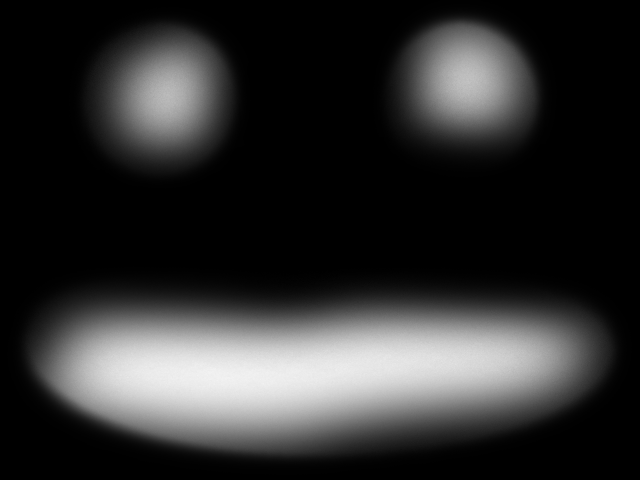
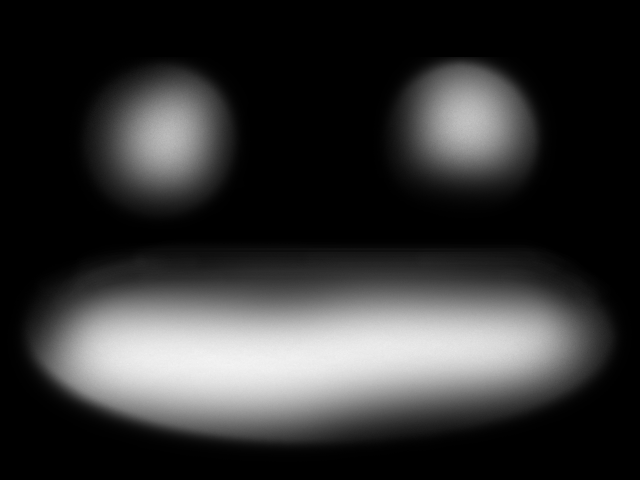
update apple mask

diff --git a/experiments/fruit-head/index.html b/experiments/fruit-head/index.html
@@ -9,11 +9,14 @@
 		body {
 			margin: 0;
 		}
-		video {
+		video, .tracker-canvas {
+			position: absolute;
+			top: 0;
+			left: 0;
 			width: 320px;
 			height: 240px;
 		}
-		canvas {
+		.main-canvas {
 			width: 450px;
 			height: 450px;
 			position: absolute;
@@ -38,7 +41,8 @@
 <body>
 	<video width="640" height="480" autoplay></video>
 	<img src="apple.jpg" class="background">
-	<canvas width="640" height="480"></canvas>
+	<canvas width="640" height="480" class="main-canvas"></canvas>
+	<canvas width="640" height="480" class="tracker-canvas"></canvas>
 	<script src="../../bower_components/clmtrackr/clmtrackr.js"></script>
 	<script src="../../bower_components/clmtrackr/models/model_pca_20_svm.js"></script>
 	<script>
@@ -61,10 +65,12 @@
 		var App = function() {
 			this.ctracker = new clm.tracker();
 			this.ctracker.init(pModel);
-			this.canvas = document.getElementsByTagName('canvas')[0];
+			this.canvas = document.getElementsByClassName('main-canvas')[0];
+			this.trackerCanvas = document.getElementsByClassName('tracker-canvas')[0];
 			this.mask = new Image();
 			this.mask.src = 'mask.png';
 			this.ctx = this.canvas.getContext('2d');
+			this.trackerCtx = this.trackerCanvas.getContext('2d');
 			this.mouthRect = {x:0, y:0, width:0, height:0};
 			this.leftEyeRect = {x:0, y:0, width:0, height:0};
 			this.rightEyeRect = {x:0, y:0, width:0, height:0};
@@ -102,13 +108,9 @@
 			this.rightEyeRect.width = positions[28][0] - this.rightEyeRect.x;
 			this.rightEyeRect.height = positions[31][1] - this.rightEyeRect.y;
 
-			// console.log(this.mouthRect.x, this.mouthRect.y, this.mouthRect.width, this.mouthRect.height);
-
-
-			// this.ctx.drawImage(this.video, 0, 0, 640, 480);
 			this.ctx.drawImage(this.video, this.mouthRect.x - ENLARGE, this.mouthRect.y - ENLARGE, this.mouthRect.width + ENLARGE * 2, this.mouthRect.height + ENLARGE * 2, 0, 240, 640, 240);
-			this.ctx.drawImage(this.video, this.leftEyeRect.x - ENLARGE, this.leftEyeRect.y - ENLARGE, this.leftEyeRect.width + ENLARGE * 2, this.leftEyeRect.height + ENLARGE * 2, 60, 0, 200, 200);
-			this.ctx.drawImage(this.video, this.rightEyeRect.x - ENLARGE, this.rightEyeRect.y - ENLARGE, this.rightEyeRect.width + ENLARGE * 2, this.rightEyeRect.height + ENLARGE * 2, 360, 0, 200, 200);
+			this.ctx.drawImage(this.video, this.leftEyeRect.x - ENLARGE, this.leftEyeRect.y - ENLARGE, this.leftEyeRect.width + ENLARGE * 2, this.leftEyeRect.height + ENLARGE * 2, 60, 40, 200, 200);
+			this.ctx.drawImage(this.video, this.rightEyeRect.x - ENLARGE, this.rightEyeRect.y - ENLARGE, this.rightEyeRect.width + ENLARGE * 2, this.rightEyeRect.height + ENLARGE * 2, 360, 40, 200, 200);
 			
 			this.ctx.globalCompositeOperation = 'multiply';
 			this.ctx.fillStyle = 'red';
@@ -117,38 +119,33 @@
 			this.ctx.globalCompositeOperation = 'destination-out';
 
 			this.ctx.drawImage(this.mask, 0, 0, this.canvas.width, this.canvas.height);
-			// this.ctx.fillStyle = "#f30";
-			// this.ctx.beginPath();
-			// this.ctx.arc(75,75,35,0,Math.PI*2,true);
-			// this.ctx.fill();
 
-			// this.ctx.fillRect(this.leftEyeRect.x, this.leftEyeRect.y, this.leftEyeRect.width, this.leftEyeRect.height);
-			// for (var i = MOUTH_INDICES.length - 1; i >= 0; i--) {
-			// 	// positions[MOUTH_INDICES[i]][0] += 10;
-			// }
-			// for (i = pModel.path.vertices.length - 1; i >= 0; i--) {
-			// 	this.drawTriangle(pModel.path.vertices[i], positions);
-			// }
-			// for (i = MOUTH_INSIDE_VERTICES_INDICES.length - 1; i >= 0; i--) {
-			// 	this.drawTriangle(MOUTH_INSIDE_VERTICES_INDICES[i], positions);
-			// }
-			// console.log(this.ctracker.getCurrentPosition());
-			// this.ctracker.draw(this.canvas);
+			this.trackerCtx.clearRect(0, 0, this.canvas.width, this.canvas.height);
+
+			for (var i = pModel.path.vertices.length - 1; i >= 0; i--) {
+				this.drawTriangle(pModel.path.vertices[i], positions);
+			}
+			for (i = MOUTH_INSIDE_VERTICES_INDICES.length - 1; i >= 0; i--) {
+				this.drawTriangle(MOUTH_INSIDE_VERTICES_INDICES[i], positions);
+			}
 		};
 
 		App.prototype.drawTriangle = function(indices, positions) {
-			this.ctx.save();
-			this.ctx.beginPath();
-			// this.ctx.fillStyle = 'red';
-			this.ctx.moveTo(positions[indices[0]][0], positions[indices[0]][1]);
-			this.ctx.lineTo(positions[indices[1]][0], positions[indices[1]][1]);
-			this.ctx.lineTo(positions[indices[2]][0], positions[indices[2]][1]);
-			this.ctx.closePath();
-			// this.ctx.fill();
-			this.ctx.stroke();
-			this.ctx.clip();
-			this.ctx.drawImage(this.video, 0, 0, this.canvas.width, this.canvas.height);
-			this.ctx.restore();
+			this.trackerCtx.save();
+			this.trackerCtx.beginPath();
+			this.trackerCtx.fillStyle = 'rgba('+
+				Math.floor(Math.random()*256)+','+
+				Math.floor(Math.random()*256)+','+
+				Math.floor(Math.random()*256)+', 0.2)';
+			this.trackerCtx.moveTo(positions[indices[0]][0], positions[indices[0]][1]);
+			this.trackerCtx.lineTo(positions[indices[1]][0], positions[indices[1]][1]);
+			this.trackerCtx.lineTo(positions[indices[2]][0], positions[indices[2]][1]);
+			this.trackerCtx.closePath();
+			this.trackerCtx.fill();
+			this.trackerCtx.stroke();
+			// this.trackerCtx.clip();
+			// this.trackerCtx.drawImage(this.video, 0, 0, this.canvas.width, this.canvas.height);
+			this.trackerCtx.restore();
 		};
 
 		navigator.getUserMedia  = navigator.getUserMedia || navigator.webkitGetUserMedia || navigator.mozGetUserMedia || navigator.msGetUserMedia;
